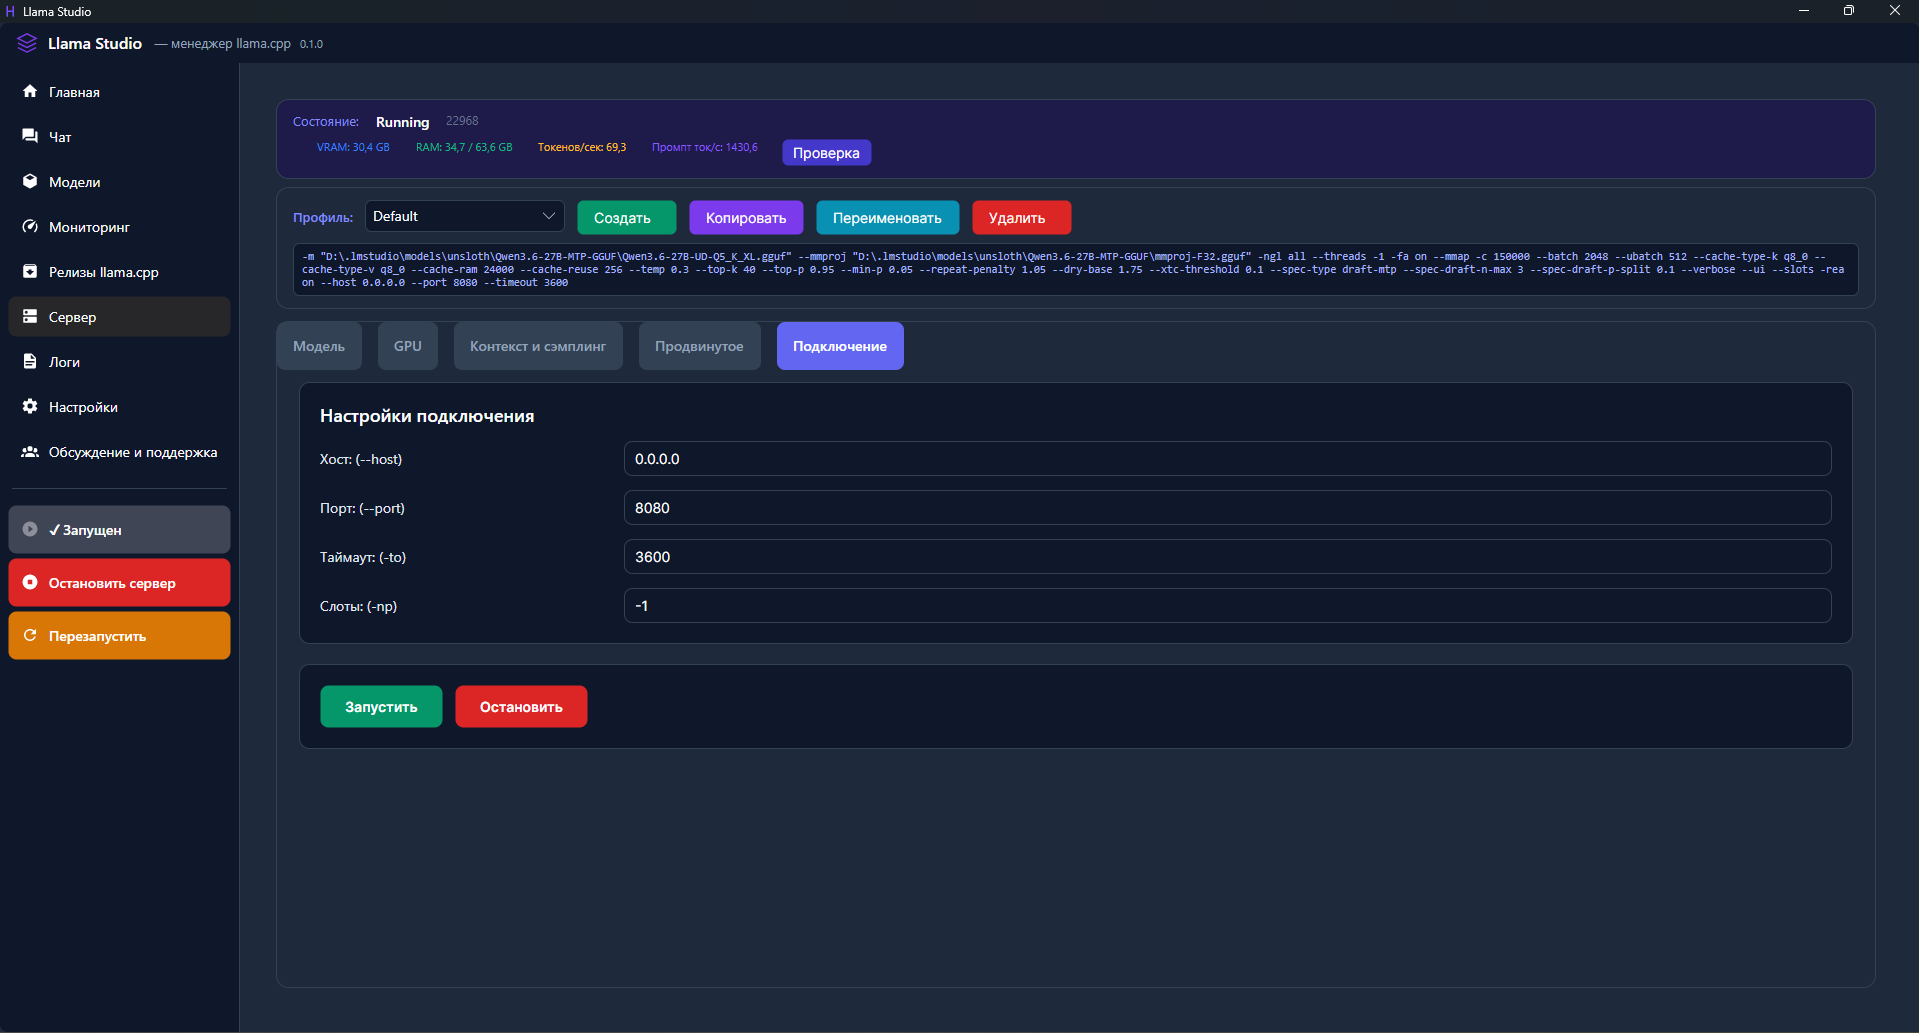
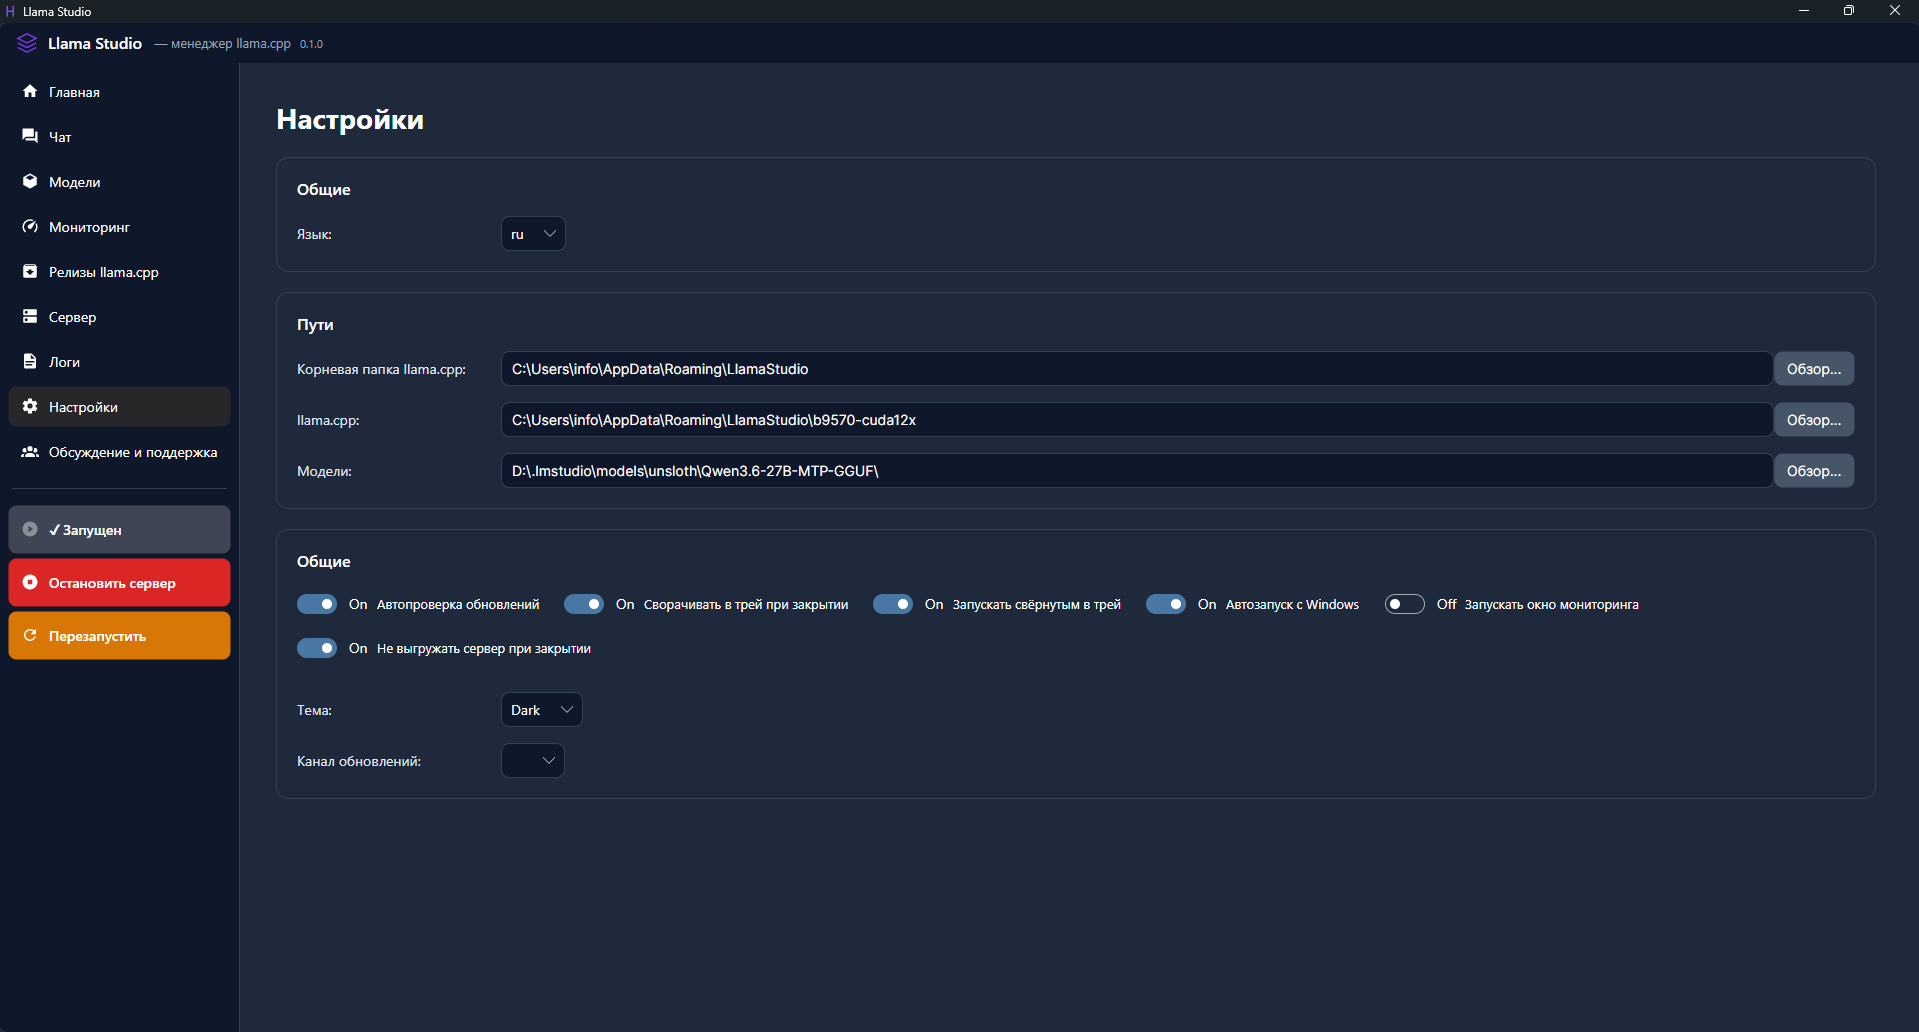
Fix: all screenshots corrected + added Server Connect tab

diff --git a/README.md b/README.md
@@ -59,6 +59,11 @@
 
 ![Server Advanced](screenshots/server-advanced.png)
 
+**Сервер (Подключение)**
+*Host, Port, Timeout, Slots для подключения к серверу.*
+
+![Server Connect](screenshots/server-connect.png)
+
 **Логи**
 *Вывод логов сервера в реальном времени.*
 
